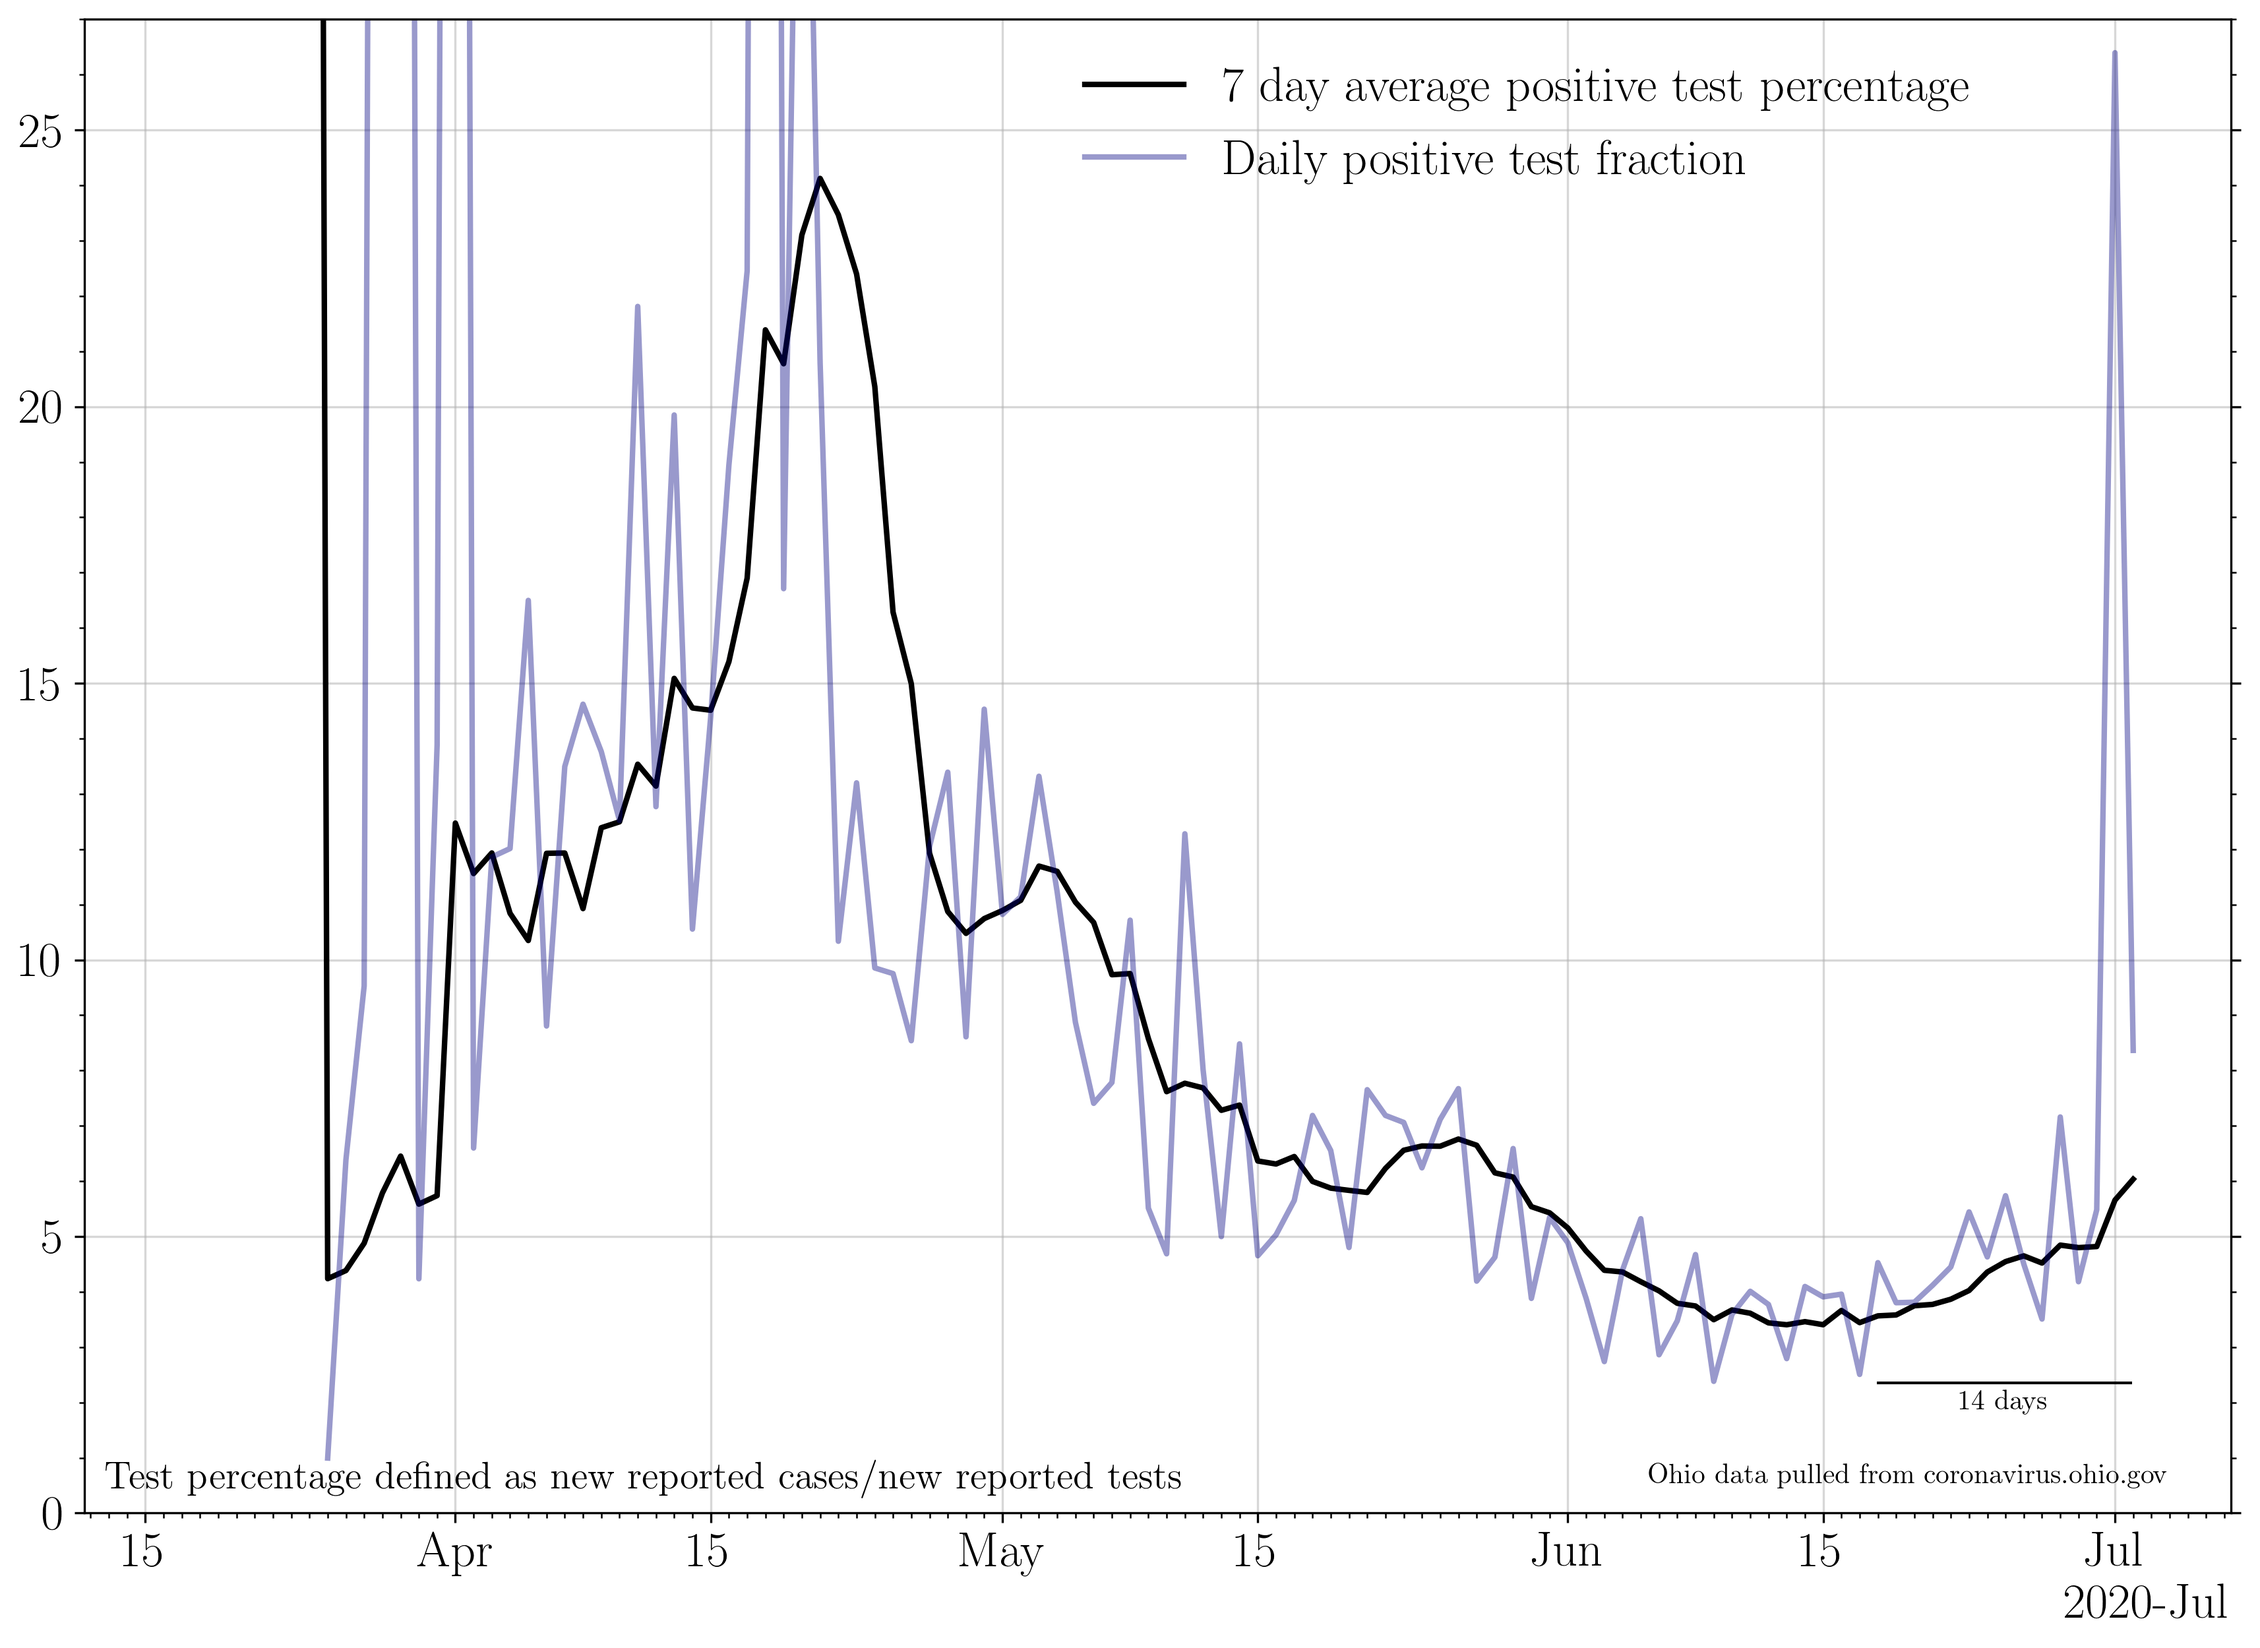
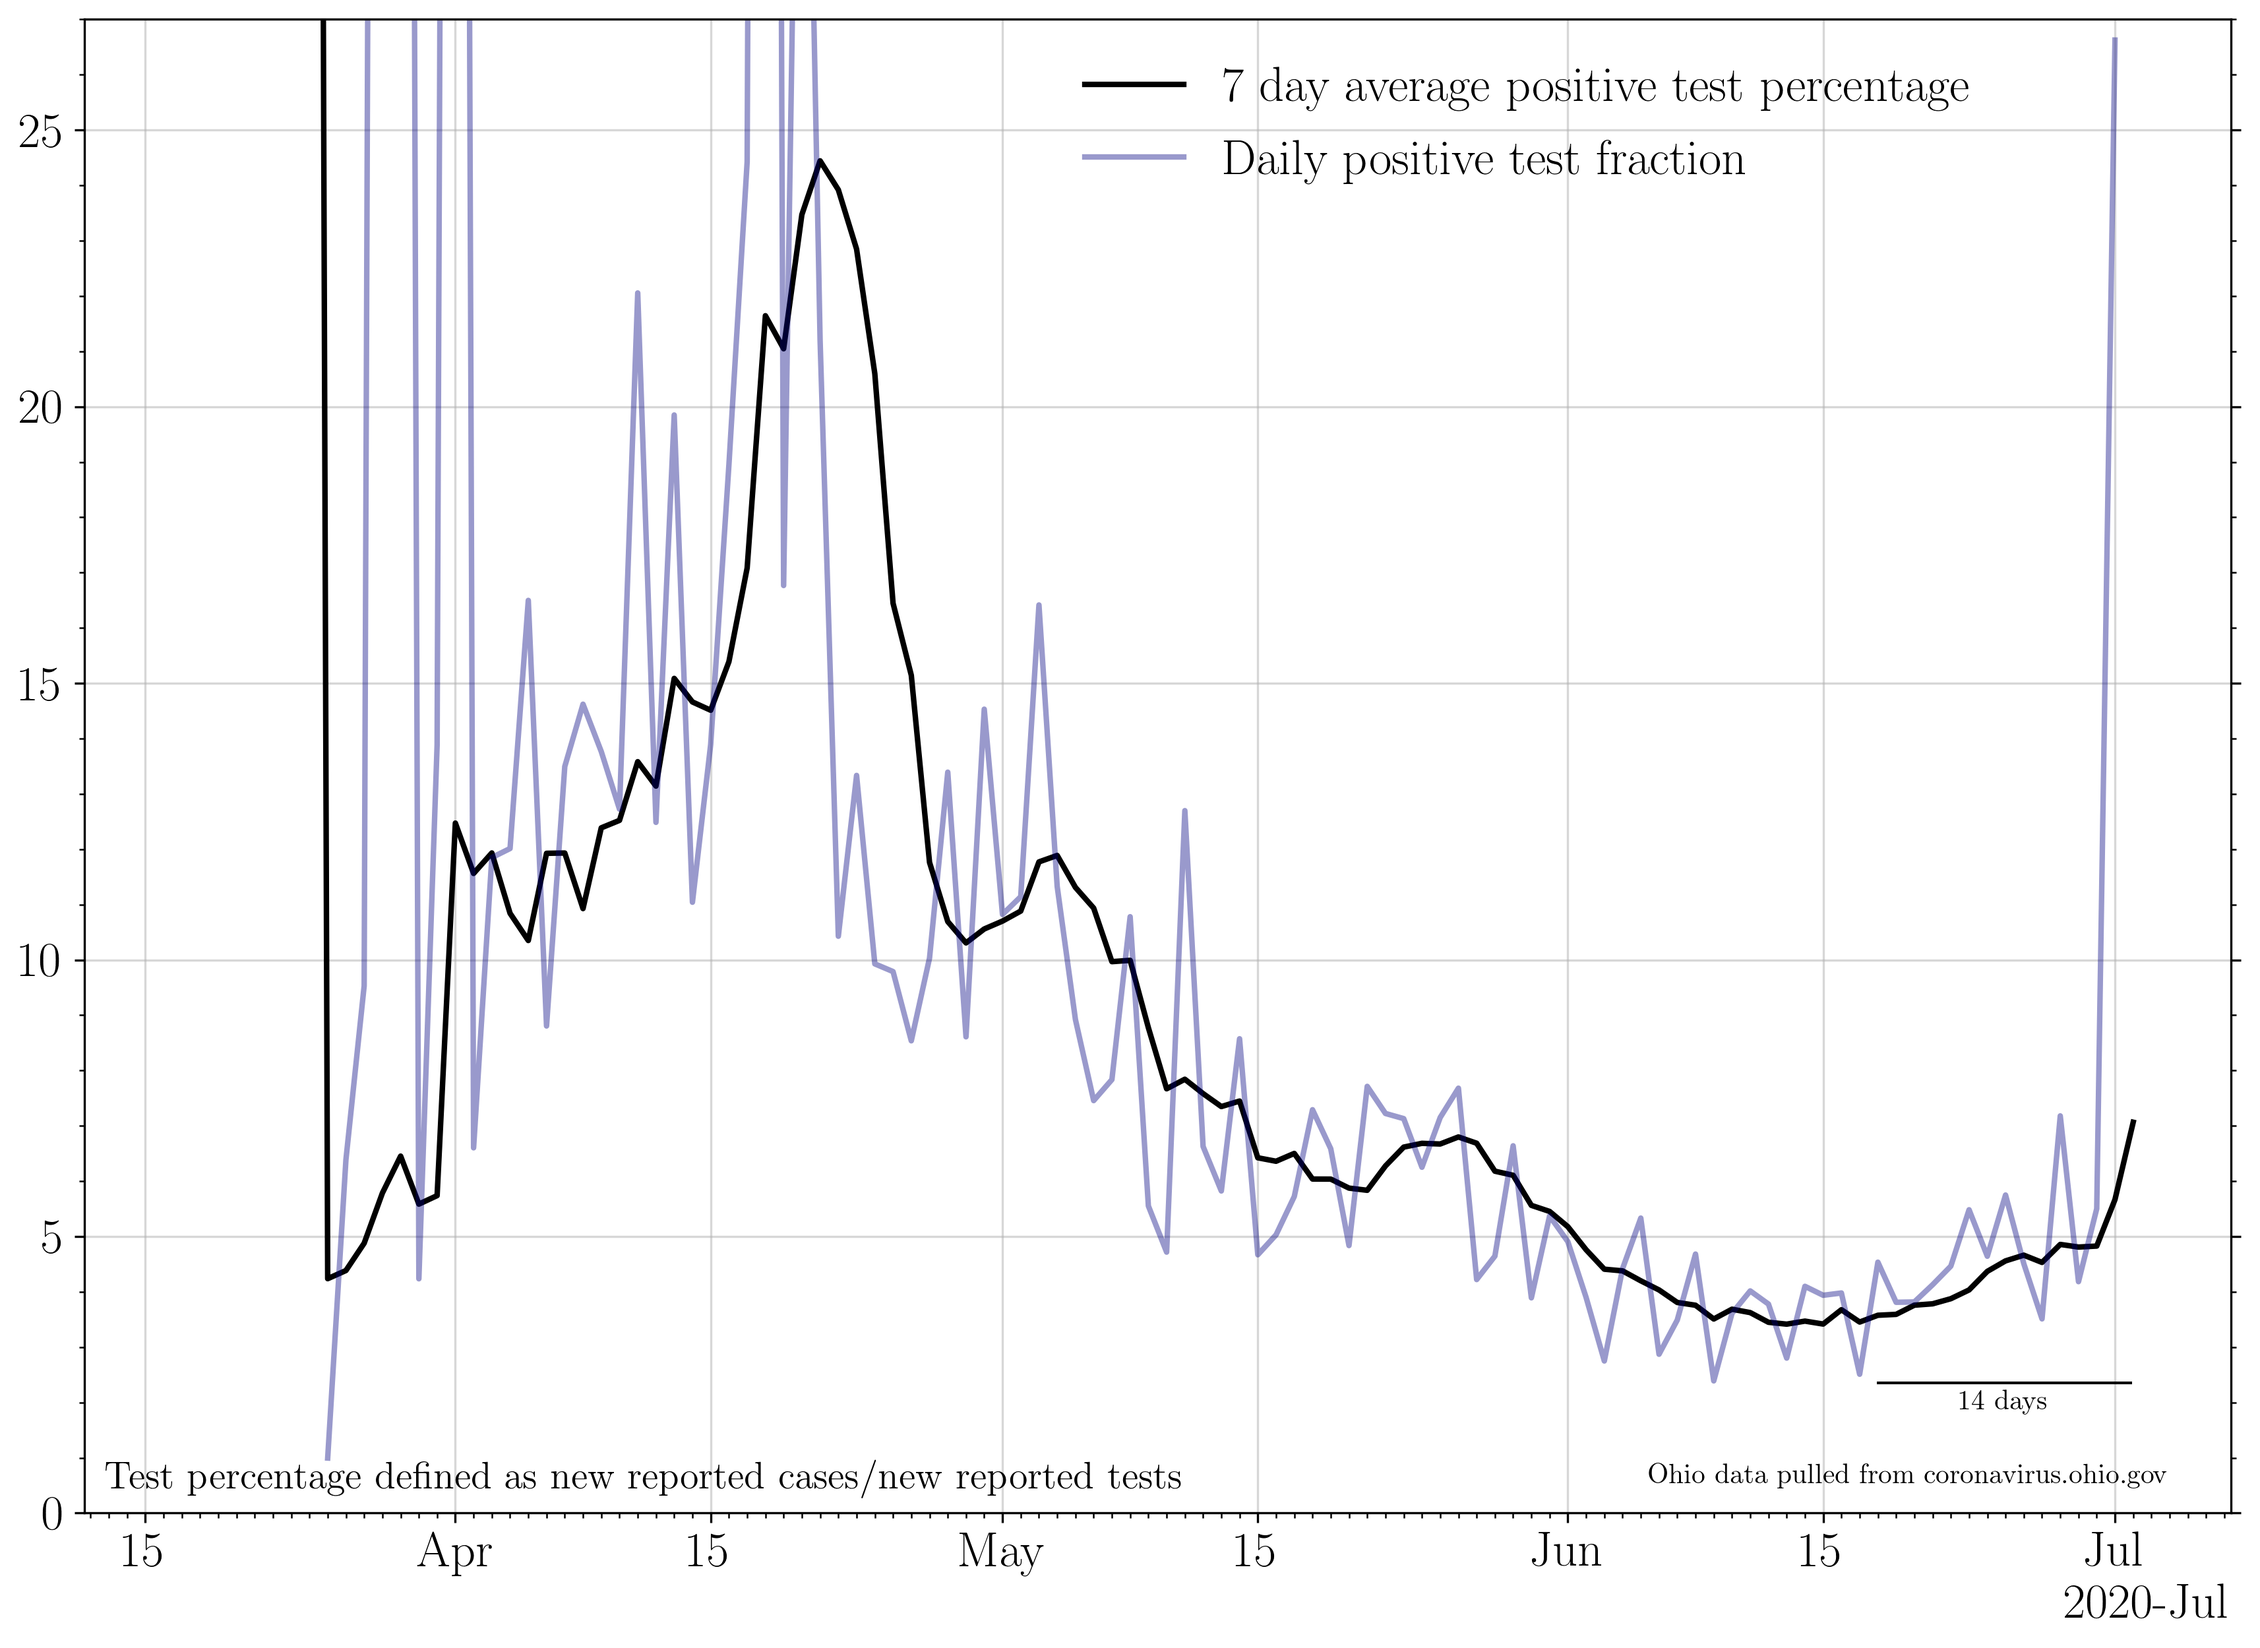
Bug fix & testing data un-update
July 02 testing data has not been published anywhere after all. Now plotting confirmed tests only instead of confirmed + presumed positive.

diff --git a/index.md b/index.md
@@ -34,6 +34,7 @@ The raw daily increase in hospitalizations, ICU admissions, and deaths. The 7 da
 ![](DailyHospitalizations.png)
 
 ### Testing
+**July 2 testing data has not been updated as of July 3 10:45am Eastern.**
 
 The increase in the number of reported total tests (blue). A 7 day running average is shown in black.
 ![](DailyTests.png)
@@ -44,7 +45,7 @@ The percent of each day's new reported tests which represent that day's new repo
 >
 >This was 20 days ago. The average was 3.4 percent positive. 
 >
->The current positive test rate is 6.0 percent, an increase of 76.5 percent with respect to the minimum. 
+>The current positive test rate is 7.1 percent, an increase of 108.8 percent with respect to the minimum. 
 
 ### Cumulative plots
 The cumulative number of cases, hospitalizations, ICU admissions, and deaths. If no new cases were reported, these lines would be horizontal.
